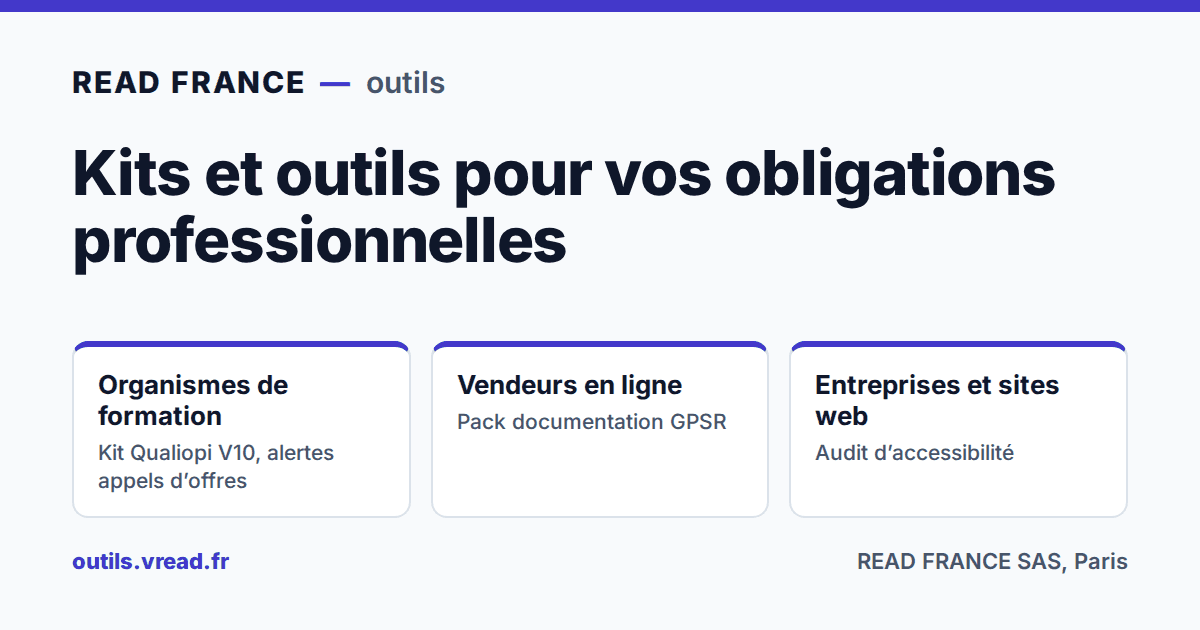
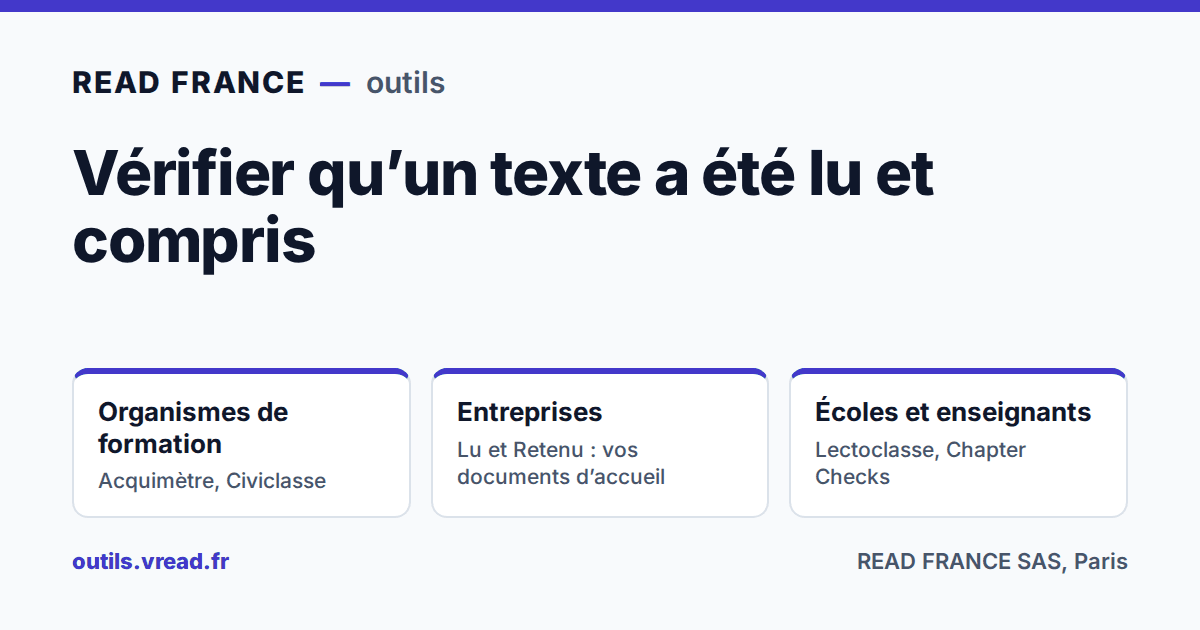
Hub: reading and comprehension offers only (Acquimètre, Lu et Retenu, Civiclasse, Lectoclasse, Chapter Checks); the other tools moved to the Jalonel brand (jalonel.com), linked once; sitemap index and robots.txt regenerated from tools/sitemaps.mjs (5 sites); cross-site footer list, JSON-LD and og.pn

Changed region(s): [[0.0617, 0.5429, 0.9558, 0.7841], [0.0617, 0.2111, 0.8942, 0.4524]]

diff --git a/index.html b/index.html
@@ -3,23 +3,23 @@
 <head>
 <meta charset="utf-8">
 <meta name="viewport" content="width=device-width, initial-scale=1">
-<title>Kit Qualiopi V10, pack GPSR, alertes AO, audit accessibilité</title>
-<meta name="description" content="READ FRANCE SAS : kit Qualiopi V10 129 €, pack GPSR 29 €, alertes appels d’offres formation dès 49 €, audit accessibilité 149 €. Prix nets. Outils gratuits.">
+<title>Questionnaires de lecture, évaluations et kits d’œuvres du domaine public</title>
+<meta name="description" content="READ FRANCE SAS : évaluations Qualiopi rédigées à partir de vos supports, questionnaires de lecture de vos documents d’accueil, examens blancs d’examen civique, kits d’œuvres pour lycées hors UE, chapter checks pour l’AP Literature.">
 <link rel="canonical" href="https://outils.vread.fr/">
 <meta property="og:type" content="website">
-<meta property="og:title" content="Kit Qualiopi V10, pack GPSR, alertes AO, audit accessibilité">
-<meta property="og:description" content="READ FRANCE SAS : kit Qualiopi V10 129 €, pack GPSR 29 €, alertes appels d’offres formation dès 49 €, audit accessibilité 149 €. Prix nets. Outils gratuits.">
+<meta property="og:title" content="Questionnaires de lecture, évaluations et kits d’œuvres du domaine public">
+<meta property="og:description" content="READ FRANCE SAS : évaluations Qualiopi rédigées à partir de vos supports, questionnaires de lecture de vos documents d’accueil, examens blancs d’examen civique, kits d’œuvres pour lycées hors UE, chapter checks pour l’AP Literature.">
 <meta property="og:url" content="https://outils.vread.fr/">
 <meta property="og:locale" content="fr_FR">
 <meta property="og:site_name" content="READ FRANCE">
 <meta property="og:image" content="https://outils.vread.fr/og.png">
 <meta property="og:image:width" content="1200">
 <meta property="og:image:height" content="630">
-<meta property="og:image:alt" content="READ FRANCE, outils : kits et outils pour vos obligations professionnelles (Qualiopi, GPSR, accessibilité, appels d’offres formation)">
+<meta property="og:image:alt" content="READ FRANCE, outils : lire et comprendre (évaluations, questionnaires de lecture, examens blancs, œuvres du domaine public)">
 <meta name="twitter:card" content="summary_large_image">
 <link rel="icon" href="/favicon.svg" type="image/svg+xml">
 <link rel="stylesheet" href="/styles.css">
-<script type="application/ld+json">{"@context": "https://schema.org", "@graph": [{"@type": "Organization", "@id": "https://outils.vread.fr/#org", "name": "READ FRANCE SAS", "legalName": "READ FRANCE", "url": "https://outils.vread.fr/", "logo": {"@type": "ImageObject", "@id": "https://outils.vread.fr/#logo", "url": "https://outils.vread.fr/logo-512.png", "contentUrl": "https://outils.vread.fr/logo-512.png", "width": 512, "height": 512, "caption": "READ FRANCE"}, "image": {"@id": "https://outils.vread.fr/#logo"}, "founder": [{"@type": "Person", "@id": "https://outils.vread.fr/#tanguy-warsmann", "name": "Tanguy Warsmann", "jobTitle": "Fondateur & CEO", "image": "https://outils.vread.fr/img/tanguy-warsmann.webp", "worksFor": {"@id": "https://outils.vread.fr/#org"}}, {"@type": "Person", "@id": "https://outils.vread.fr/#vincent-cance", "name": "Vincent Cance", "jobTitle": "Cofondateur & CTO", "image": "https://outils.vread.fr/img/vincent-cance.webp", "worksFor": {"@id": "https://outils.vread.fr/#org"}}], "sameAs": ["https://www.linkedin.com/company/vread-app/", "https://www.vread.fr/"], "email": "octave@vread.fr", "contactPoint": {"@type": "ContactPoint", "contactType": "customer service", "email": "octave@vread.fr", "availableLanguage": ["fr", "en"]}, "address": {"@type": "PostalAddress", "streetAddress": "11 rue Rouvet", "postalCode": "75019", "addressLocality": "Paris", "addressCountry": "FR"}, "identifier": {"@type": "PropertyValue", "propertyID": "SIREN", "value": "988741773"}, "hasOfferCatalog": {"@type": "OfferCatalog", "name": "Offres professionnelles READ FRANCE SAS", "itemListElement": [{"@type": "Offer", "itemOffered": {"@type": "Product", "name": "Kit Qualiopi V10", "url": "https://outils.vread.fr/kit-qualiopi-v10/"}, "price": "129.00", "priceCurrency": "EUR", "availability": "https://schema.org/InStock", "url": "https://outils.vread.fr/kit-qualiopi-v10/"}, {"@type": "Offer", "itemOffered": {"@type": "Product", "name": "Pack documentation GPSR", "url": "https://outils.vread.fr/kit-gpsr-vendeurs/pack.html"}, "price": "29.00", "priceCurrency": "EUR", "availability": "https://schema.org/InStock", "url": "https://outils.vread.fr/kit-gpsr-vendeurs/pack.html"}, {"@type": "Offer", "itemOffered": {"@type": "Product", "name": "Alertes e-mail appels d’offres formation — 3 mois", "url": "https://outils.vread.fr/veille-ao-formation/alertes/"}, "price": "49.00", "priceCurrency": "EUR", "availability": "https://schema.org/InStock", "url": "https://outils.vread.fr/veille-ao-formation/alertes/"}, {"@type": "Offer", "itemOffered": {"@type": "Product", "name": "Alertes e-mail appels d’offres formation — 12 mois", "url": "https://outils.vread.fr/veille-ao-formation/alertes/"}, "price": "149.00", "priceCurrency": "EUR", "availability": "https://schema.org/InStock", "url": "https://outils.vread.fr/veille-ao-formation/alertes/"}, {"@type": "Offer", "itemOffered": {"@type": "Product", "name": "Audit automatisé partiel d’accessibilité", "url": "https://outils.vread.fr/declaration-accessibilite/audit/"}, "price": "149.00", "priceCurrency": "EUR", "availability": "https://schema.org/InStock", "url": "https://outils.vread.fr/declaration-accessibilite/audit/"}]}}, {"@type": "ItemList", "name": "Outils et kits — READ FRANCE SAS", "itemListElement": [{"@type": "ListItem", "position": 1, "name": "Kit Qualiopi V10", "url": "https://outils.vread.fr/kit-qualiopi-v10/"}, {"@type": "ListItem", "position": 2, "name": "Kit GPSR Vendeurs", "url": "https://outils.vread.fr/kit-gpsr-vendeurs/"}, {"@type": "ListItem", "position": 3, "name": "Veille appels d’offres formation", "url": "https://outils.vread.fr/veille-ao-formation/"}, {"@type": "ListItem", "position": 4, "name": "Objectif NCLC — TCF Canada", "url": "https://outils.vread.fr/tcf-canada-entrainement/"}, {"@type": "ListItem", "position": 5, "name": "Courrier clair", "url": "https://outils.vread.fr/comprendre-mon-courrier/"}, {"@type": "ListItem", "position": 6, "name": "Générateur de déclaration d’accessibilité", "url": "https://outils.vread.fr/declaration-accessibilite/"}, {"@type": "ListItem", "position": 7, "name": "Vigie Marques", "url": "https://outils.vread.fr/veille-marques/"}, {"@type": "ListItem", "position": 8, "name": "Repère IA", "url": "https://outils.vread.fr/visibilite-ia/"}]}]}</script>
+<script type="application/ld+json">{"@context": "https://schema.org", "@graph": [{"@type": "Organization", "@id": "https://outils.vread.fr/#org", "name": "READ FRANCE SAS", "legalName": "READ FRANCE", "url": "https://outils.vread.fr/", "logo": {"@type": "ImageObject", "@id": "https://outils.vread.fr/#logo", "url": "https://outils.vread.fr/logo-512.png", "contentUrl": "https://outils.vread.fr/logo-512.png", "width": 512, "height": 512, "caption": "READ FRANCE"}, "image": {"@id": "https://outils.vread.fr/#logo"}, "founder": [{"@type": "Person", "@id": "https://outils.vread.fr/#tanguy-warsmann", "name": "Tanguy Warsmann", "jobTitle": "Fondateur & CEO", "image": "https://outils.vread.fr/img/tanguy-warsmann.webp", "worksFor": {"@id": "https://outils.vread.fr/#org"}}, {"@type": "Person", "@id": "https://outils.vread.fr/#vincent-cance", "name": "Vincent Cance", "jobTitle": "Cofondateur & CTO", "image": "https://outils.vread.fr/img/vincent-cance.webp", "worksFor": {"@id": "https://outils.vread.fr/#org"}}], "sameAs": ["https://www.linkedin.com/company/vread-app/", "https://www.vread.fr/"], "email": "octave@vread.fr", "contactPoint": {"@type": "ContactPoint", "contactType": "customer service", "email": "octave@vread.fr", "availableLanguage": ["fr", "en"]}, "address": {"@type": "PostalAddress", "streetAddress": "11 rue Rouvet", "postalCode": "75019", "addressLocality": "Paris", "addressCountry": "FR"}, "identifier": {"@type": "PropertyValue", "propertyID": "SIREN", "value": "988741773"}, "brand": {"@type": "Brand", "name": "Jalonel", "url": "https://jalonel.com/"}}, {"@type": "ItemList", "name": "Offres de lecture et de compréhension — READ FRANCE SAS", "itemListElement": [{"@type": "ListItem", "position": 1, "name": "Acquimètre", "url": "https://outils.vread.fr/acquimetre/"}, {"@type": "ListItem", "position": 2, "name": "Lu et Retenu", "url": "https://outils.vread.fr/lu-et-retenu/"}, {"@type": "ListItem", "position": 3, "name": "Civiclasse", "url": "https://outils.vread.fr/civiclasse/"}, {"@type": "ListItem", "position": 4, "name": "Lectoclasse", "url": "https://outils.vread.fr/lectoclasse/"}, {"@type": "ListItem", "position": 5, "name": "Chapter Checks", "url": "https://outils.vread.fr/chapter-checks/"}]}]}</script>
 </head>
 <body>
 <a class="skip" href="#contenu">Aller au contenu</a>
@@ -27,7 +27,7 @@
   <a class="wordmark" href="/" aria-label="READ FRANCE – outils, accueil">READ FRANCE <span class="wm-dash" aria-hidden="true">—</span> <span class="wm-sub">outils</span></a>
   <nav class="topnav" aria-label="Navigation principale">
     <a class="opt" href="#offres">Offres</a>
-    <a class="opt" href="#gratuit">Outils gratuits</a>
+    <a class="opt" href="#gratuit">Exemples gratuits</a>
     <a class="opt" href="#qui">Qui sommes-nous</a>
     <a class="contact-link" href="mailto:octave@vread.fr">Contact</a>
   </nav>
@@ -35,64 +35,62 @@
 <main id="contenu"><div class="wrap">
   <section class="hero" id="hero" aria-labelledby="h-titre">
     <div>
-      <p class="eyebrow">READ FRANCE SAS, Paris</p>
-      <h1 id="h-titre">Kit Qualiopi 2026, pack GPSR, alertes d’appels d’offres formation et audit d’accessibilité, de 29 € à 149 €</h1>
-      <p class="lead">Le kit Qualiopi suit le référentiel applicable au 1er novembre 2026 (décret n° 2026-728, 33 indicateurs). Le pack GPSR suit le règlement (UE) 2023/988. Les alertes reprennent chaque matin les avis BOAMP et TED de vos régions. Quatre outils gratuits fonctionnent sans inscription.</p>
+      <p class="eyebrow">READ FRANCE SAS, l’éditeur de Vread</p>
+      <h1 id="h-titre">Vérifier qu’un texte a été lu et compris : évaluations de formation, questionnaires de lecture, examens blancs et œuvres du domaine public</h1>
+      <p class="lead">Les questions sont rédigées à partir du texte lui-même, avec le passage qui justifie chaque réponse : vos supports de cours pour Acquimètre, vos documents d’accueil pour Lu et Retenu, les œuvres du bac de français pour Lectoclasse. Chaque offre a un exemple gratuit complet.</p>
       <div class="cta-row">
-        <a class="btn" href="#offres">Voir les offres, dès 29 €</a>
-        <a class="text-link" href="#gratuit">Ou commencer par un outil gratuit</a>
+        <a class="btn" href="#offres">Voir les offres</a>
+        <a class="text-link" href="#gratuit">Ou commencer par un exemple gratuit</a>
       </div>
     </div>
     <ul class="audiences" aria-label="Accès par profil">
-      <li><a href="#of"><span class="ico" aria-hidden="true">OF</span><span><strong>Organismes de formation</strong><span class="sub">Kit Qualiopi V10, alertes appels d’offres</span></span></a></li>
-      <li><a href="#vendeurs"><span class="ico" aria-hidden="true">€</span><span><strong>Vendeurs en ligne</strong><span class="sub">Pack documentation GPSR</span></span></a></li>
-      <li><a href="#sites"><span class="ico" aria-hidden="true">A11y</span><span><strong>Entreprises et sites web</strong><span class="sub">Audit d’accessibilité automatisé</span></span></a></li>
+      <li><a href="#formation"><span class="ico" aria-hidden="true">OF</span><span><strong>Organismes de formation et entreprises</strong><span class="sub">Acquimètre, Lu et Retenu, Civiclasse</span></span></a></li>
+      <li><a href="#ecoles"><span class="ico" aria-hidden="true">Éc</span><span><strong>Écoles et enseignants</strong><span class="sub">Lectoclasse, Chapter Checks</span></span></a></li>
     </ul>
   </section>
 
   <section id="offres" aria-labelledby="h-offres" style="margin-top:40px">
     <h2 id="h-offres" class="sec">Offres par profil</h2>
-    <p class="sec-lead">Vente aux professionnels (SIREN), paiement par carte avec Stripe, facture par e-mail. Chaque offre a sa version gratuite pour essayer avant d’acheter.</p>
+    <p class="sec-lead">Vente aux professionnels et aux établissements, paiement par carte avec Stripe, facture par e-mail. Le prix est affiché sur la page de commande de chaque offre.</p>
 
     <div class="groups">
-    <div class="group" id="of" data-section="offre-of">
-      <div class="group-head"><h3>Organismes de formation</h3><p>Certification Qualiopi et marchés publics</p></div>
+    <div class="group" id="formation" data-section="offre-formation">
+      <div class="group-head"><h3>Formation et entreprises</h3><p>Évaluer ce qui a été lu et compris</p></div>
       <ul class="grid">
         <li class="card">
-          <h4><a class="go" href="/kit-qualiopi-v10/">Kit Qualiopi V10</a></h4>
-          <p class="desc">4 synthèses et 19 modèles Word / LibreOffice pour le nouveau référentiel Qualiopi applicable au 1er novembre 2026 (33 indicateurs).</p>
-          <p class="price"><strong>129 €</strong></p>
-          <div class="actions"><a class="btn" href="/kit-qualiopi-v10/commander.html">Obtenir le kit – 129 €</a><a class="free" href="/kit-qualiopi-v10/">Échantillon gratuit</a></div>
+          <h4><a class="go" href="/acquimetre/">Acquimètre</a></h4>
+          <p class="desc">Tests de positionnement et évaluations de fin de formation et à J+30, rédigés à partir de vos supports de cours, avec corrigés et sources (Qualiopi, indicateurs 8 et 11). Livraison sous 5 jours ouvrés.</p>
+          <p class="price">Organismes de formation</p>
+          <div class="actions"><a class="btn" href="/acquimetre/commander.html">Commander</a><a class="free" href="/acquimetre/#exemple">Exemple complet gratuit</a></div>
         </li>
         <li class="card">
-          <h4><a class="go" href="/veille-ao-formation/alertes/">Alertes appels d’offres formation</a></h4>
-          <p class="desc">Chaque matin par e-mail, les nouveaux appels d’offres publics de formation (BOAMP, TED) de vos régions et thèmes. Prépayé, sans renouvellement automatique.</p>
-          <p class="price"><strong>49 €</strong> / 3 mois · 149 € / 12 mois</p>
-          <div class="actions"><a class="btn" href="/veille-ao-formation/alertes/#commander-h">Recevoir les alertes – 49 €</a><a class="free" href="/veille-ao-formation/">Veille gratuite (RSS, CSV)</a></div>
+          <h4><a class="go" href="/lu-et-retenu/">Lu et Retenu</a></h4>
+          <p class="desc">Un questionnaire de lecture de votre règlement intérieur ou de votre livret d’accueil, avec passages cités, corrigé et attestation de lecture à signer.</p>
+          <p class="price">Organismes de formation et entreprises</p>
+          <div class="actions"><a class="btn" href="/lu-et-retenu/commander.html">Commander</a><a class="free" href="/lu-et-retenu/#exemple">Exemple complet gratuit</a></div>
         </li>
-      </ul>
-    </div>
-
-    <div class="group" id="vendeurs" data-section="offre-vendeurs">
-      <div class="group-head"><h3>Vendeurs en ligne</h3><p>Règlement sur la sécurité générale des produits (UE) 2023/988</p></div>
-      <ul class="grid">
         <li class="card">
-          <h4><a class="go" href="/kit-gpsr-vendeurs/pack.html">Pack documentation GPSR</a></h4>
-          <p class="desc">Modèles étendus par catégorie, procédure de rappel, registre des incidents, questionnaire fournisseur (FR/EN) pour vendeurs Etsy, Vinted, Amazon, Shopify.</p>
-          <p class="price"><strong>29 €</strong></p>
-          <div class="actions"><a class="btn" href="/kit-gpsr-vendeurs/commander.html">Obtenir le pack – 29 €</a><a class="free" href="/kit-gpsr-vendeurs/">Générateur gratuit de fiche produit</a></div>
+          <h4><a class="go" href="/civiclasse/">Civiclasse</a></h4>
+          <p class="desc">Examens blancs de 40 questions au format de l’examen civique, corrigés sourcés, fiches de progression et module « Lecture B2 ». Version bêta.</p>
+          <p class="price">Organismes de formation</p>
+          <div class="actions"><a class="btn" href="/civiclasse/commander/">Voir les licences</a><a class="free" href="/civiclasse/entrainement/">Test gratuit de 10 questions</a></div>
         </li>
       </ul>
     </div>
-
-    <div class="group" id="sites" data-section="offre-sites">
-      <div class="group-head"><h3>Entreprises et sites web</h3><p>Accessibilité numérique (Acte européen sur l’accessibilité, RGAA)</p></div>
+    <div class="group" id="ecoles" data-section="offre-ecoles">
+      <div class="group-head"><h3>Écoles et enseignants</h3><p>Œuvres du domaine public, en classe</p></div>
       <ul class="grid">
         <li class="card">
-          <h4><a class="go" href="/declaration-accessibilite/audit/">Audit d’accessibilité automatisé</a></h4>
-          <p class="desc">Vos 20 pages clés testées sur ordinateur et mobile : rapport PDF sous 24 h ouvrées, problèmes classés par gravité. Analyse automatisée, ce n’est pas un audit RGAA complet.</p>
-          <p class="price"><strong>149 €</strong></p>
-          <div class="actions"><a class="btn" href="/declaration-accessibilite/audit/">Voir l’audit – 149 €</a><a class="free" href="/declaration-accessibilite/">Générateur gratuit de déclaration</a></div>
+          <h4><a class="go" href="/lectoclasse/">Lectoclasse</a></h4>
+          <p class="desc">Les œuvres du domaine public du bac de français (épreuve de juin 2027) à imprimer, avec questions par acte ou chapitre, corrigés et fiches d’oral.</p>
+          <p class="price">Lycées et écoles hors UE</p>
+          <div class="actions"><a class="btn" href="/lectoclasse/commander/">Voir les kits</a><a class="free" href="/lectoclasse/echantillon/">Kit gratuit sur Le Menteur</a></div>
+        </li>
+        <li class="card">
+          <h4><a class="go" href="/chapter-checks/" hreflang="en">Chapter Checks</a></h4>
+          <p class="desc">Contrôles de lecture par chapitre ou par acte pour 8 classiques étudiés en AP Literature : PDF, corrigé avec citations, barème, QTI pour Canvas et Google Forms.</p>
+          <p class="price">Enseignants aux États-Unis (en anglais)</p>
+          <div class="actions"><a class="btn" href="/chapter-checks/order/" hreflang="en">Voir les titres</a><a class="free" href="/chapter-checks/free-sample/" hreflang="en">Macbeth gratuit</a></div>
         </li>
       </ul>
     </div>
@@ -101,21 +99,23 @@
   </section>
 
   <section id="gratuit" aria-labelledby="h-gratuit" style="margin-top:56px">
-    <h2 id="h-gratuit" class="sec">Outils gratuits</h2>
+    <h2 id="h-gratuit" class="sec">Exemples gratuits</h2>
     <p class="sec-lead">Sans inscription, sans cookie.</p>
     <ul class="tools">
-      <li><a href="/tcf-canada-entrainement/">Objectif NCLC (TCF Canada)</a><span>Entraînement à l’expression orale et écrite du TCF Canada : format des tâches, sujets, grilles d’auto-évaluation NCLC.</span></li>
-      <li><a href="/comprendre-mon-courrier/">Courrier clair</a><span>Comprendre un courrier de la CAF, des impôts, de la préfecture, de la CPAM, de l’URSSAF ou une amende : délais, démarches, liens officiels. FR/EN.</span></li>
-      <li><a href="/veille-marques/">Vigie Marques</a><span>Surveiller sa marque soi-même : délais d’opposition INPI et EUIPO, recherches dans les bases officielles, alertes gratuites.</span></li>
-      <li><a href="/visibilite-ia/">Repère IA</a><span>Vérifier comment ChatGPT, Perplexity ou Gemini décrivent votre entreprise, et corriger ce qui bloque.</span></li>
+      <li><a href="/acquimetre/#exemple">Exemple complet gratuit</a><span>Acquimètre : organismes de formation.</span></li>
+      <li><a href="/lu-et-retenu/#exemple">Exemple complet gratuit</a><span>Lu et Retenu : organismes de formation et entreprises.</span></li>
+      <li><a href="/civiclasse/entrainement/">Test gratuit de 10 questions</a><span>Civiclasse : organismes de formation.</span></li>
+      <li><a href="/lectoclasse/echantillon/">Kit gratuit sur Le Menteur</a><span>Lectoclasse : lycées et écoles hors ue.</span></li>
+      <li><a href="/chapter-checks/free-sample/" hreflang="en">Macbeth gratuit</a><span>Chapter Checks : enseignants aux États-Unis (en anglais).</span></li>
     </ul>
+    <p class="sec-lead" style="margin-top:18px">Les outils de READ FRANCE SAS sans lien avec la lecture (Qualiopi, GPSR, accessibilité, appels d’offres, outils internationaux) sont sur <a href="https://jalonel.com/">jalonel.com</a>, une autre marque de la société.</p>
   </section>
 
   <section class="about" id="qui" aria-labelledby="h-qui">
     <div class="about-intro">
       <p class="eyebrow">Qui sommes-nous</p>
       <h2 id="h-qui">READ FRANCE SAS, Paris</h2>
-      <p>READ FRANCE SAS, société par actions simplifiée installée dans le 19e arrondissement de Paris, vend ces kits et ces services aux professionnels et publie les outils gratuits ci-dessus. Le kit Qualiopi part du décret n° 2026-728, le pack GPSR du règlement (UE) 2023/988 ; leurs pages citent ces textes. Les e-mails de prospection sont préparés par Octave, l’assistant IA de la société (<a href="/informations-prospects/">comment nous traitons ces données</a>).</p>
+      <p>READ FRANCE SAS, société par actions simplifiée installée dans le 19e arrondissement de Paris, édite Vread, l’application de lecture, et les offres de lecture et de compréhension de ce site. Chaque offre cite ses sources : textes du domaine public, référentiel Qualiopi (indicateurs 8 et 11), liste officielle des questions de l’examen civique. Les e-mails de prospection sont préparés par Octave, l’assistant IA de la société (<a href="/informations-prospects/">comment nous traitons ces données</a>).</p>
     </div>
     <ul class="founders" aria-label="Fondateurs">
       <li class="founder">
@@ -147,10 +147,12 @@
 <p class="rf-network-title">Autres outils READ FRANCE</p>
 <ul>
 <li><a href="https://outils.vread.fr/">Tous les outils</a></li>
-<li><a href="https://outils.vread.fr/kit-qualiopi-v10/">Kit Qualiopi V10</a></li>
-<li><a href="https://outils.vread.fr/kit-gpsr-vendeurs/pack.html">Pack documentation GPSR</a></li>
-<li><a href="https://outils.vread.fr/veille-ao-formation/alertes/">Alertes appels d’offres formation</a></li>
-<li><a href="https://outils.vread.fr/declaration-accessibilite/audit/">Audit d’accessibilité</a></li>
+<li><a href="https://outils.vread.fr/acquimetre/">Acquimètre</a></li>
+<li><a href="https://outils.vread.fr/lu-et-retenu/">Lu et Retenu</a></li>
+<li><a href="https://outils.vread.fr/civiclasse/">Civiclasse</a></li>
+<li><a href="https://outils.vread.fr/lectoclasse/">Lectoclasse</a></li>
+<li><a href="https://outils.vread.fr/chapter-checks/" hreflang="en">Chapter Checks</a></li>
+<li><a href="https://jalonel.com/">Autres outils : jalonel.com</a></li>
 </ul>
 </nav>
 

diff --git a/tools/og-hub.html b/tools/og-hub.html
@@ -23,11 +23,11 @@
 </head>
 <body>
   <div class="wm">READ FRANCE <span class="dash">—</span> <span class="sub">outils</span></div>
-  <h1>Kits et outils pour vos obligations professionnelles</h1>
+  <h1>Vérifier qu’un texte a été lu et compris</h1>
   <ul>
-    <li><strong>Organismes de formation</strong><span>Kit Qualiopi V10, alertes appels d’offres</span></li>
-    <li><strong>Vendeurs en ligne</strong><span>Pack documentation GPSR</span></li>
-    <li><strong>Entreprises et sites web</strong><span>Audit d’accessibilité</span></li>
+    <li><strong>Organismes de formation</strong><span>Acquimètre, Civiclasse</span></li>
+    <li><strong>Entreprises</strong><span>Lu et Retenu : vos documents d’accueil</span></li>
+    <li><strong>Écoles et enseignants</strong><span>Lectoclasse, Chapter Checks</span></li>
   </ul>
   <div class="foot"><b>outils.vread.fr</b><span>READ FRANCE SAS, Paris</span></div>
 <script src="../cro.js" data-site="hub" data-api="https://script.google.com/macros/s/AKfycbzD1IRL8QALluKGZxgGiORFP6-DkC_qFJYR9aOxZiimxa06nbCqpzUI-9iLblp6V2VY/exec" data-hosts="outils.vread.fr" defer></script>

diff --git a/404.html b/404.html
@@ -33,10 +33,12 @@
 <p class="rf-network-title">Autres outils READ FRANCE</p>
 <ul>
 <li><a href="https://outils.vread.fr/">Tous les outils</a></li>
-<li><a href="https://outils.vread.fr/kit-qualiopi-v10/">Kit Qualiopi V10</a></li>
-<li><a href="https://outils.vread.fr/kit-gpsr-vendeurs/pack.html">Pack documentation GPSR</a></li>
-<li><a href="https://outils.vread.fr/veille-ao-formation/alertes/">Alertes appels d’offres formation</a></li>
-<li><a href="https://outils.vread.fr/declaration-accessibilite/audit/">Audit d’accessibilité</a></li>
+<li><a href="https://outils.vread.fr/acquimetre/">Acquimètre</a></li>
+<li><a href="https://outils.vread.fr/lu-et-retenu/">Lu et Retenu</a></li>
+<li><a href="https://outils.vread.fr/civiclasse/">Civiclasse</a></li>
+<li><a href="https://outils.vread.fr/lectoclasse/">Lectoclasse</a></li>
+<li><a href="https://outils.vread.fr/chapter-checks/" hreflang="en">Chapter Checks</a></li>
+<li><a href="https://jalonel.com/">Autres outils : jalonel.com</a></li>
 </ul>
 </nav>
 

diff --git a/informations-prospects/index.html b/informations-prospects/index.html
@@ -84,10 +84,12 @@
 <p class="rf-network-title">Autres outils READ FRANCE</p>
 <ul>
 <li><a href="https://outils.vread.fr/">Tous les outils</a></li>
-<li><a href="https://outils.vread.fr/kit-qualiopi-v10/">Kit Qualiopi V10</a></li>
-<li><a href="https://outils.vread.fr/kit-gpsr-vendeurs/pack.html">Pack documentation GPSR</a></li>
-<li><a href="https://outils.vread.fr/veille-ao-formation/alertes/">Alertes appels d’offres formation</a></li>
-<li><a href="https://outils.vread.fr/declaration-accessibilite/audit/">Audit d’accessibilité</a></li>
+<li><a href="https://outils.vread.fr/acquimetre/">Acquimètre</a></li>
+<li><a href="https://outils.vread.fr/lu-et-retenu/">Lu et Retenu</a></li>
+<li><a href="https://outils.vread.fr/civiclasse/">Civiclasse</a></li>
+<li><a href="https://outils.vread.fr/lectoclasse/">Lectoclasse</a></li>
+<li><a href="https://outils.vread.fr/chapter-checks/" hreflang="en">Chapter Checks</a></li>
+<li><a href="https://jalonel.com/">Autres outils : jalonel.com</a></li>
 </ul>
 </nav>
 

diff --git a/mentions-legales.html b/mentions-legales.html
@@ -57,10 +57,12 @@
 <p class="rf-network-title">Autres outils READ FRANCE</p>
 <ul>
 <li><a href="https://outils.vread.fr/">Tous les outils</a></li>
-<li><a href="https://outils.vread.fr/kit-qualiopi-v10/">Kit Qualiopi V10</a></li>
-<li><a href="https://outils.vread.fr/kit-gpsr-vendeurs/pack.html">Pack documentation GPSR</a></li>
-<li><a href="https://outils.vread.fr/veille-ao-formation/alertes/">Alertes appels d’offres formation</a></li>
-<li><a href="https://outils.vread.fr/declaration-accessibilite/audit/">Audit d’accessibilité</a></li>
+<li><a href="https://outils.vread.fr/acquimetre/">Acquimètre</a></li>
+<li><a href="https://outils.vread.fr/lu-et-retenu/">Lu et Retenu</a></li>
+<li><a href="https://outils.vread.fr/civiclasse/">Civiclasse</a></li>
+<li><a href="https://outils.vread.fr/lectoclasse/">Lectoclasse</a></li>
+<li><a href="https://outils.vread.fr/chapter-checks/" hreflang="en">Chapter Checks</a></li>
+<li><a href="https://jalonel.com/">Autres outils : jalonel.com</a></li>
 </ul>
 </nav>
 

diff --git a/README.md b/README.md
@@ -1,6 +1,6 @@
 # vread-corp.github.io
 
-Site racine (hub) des outils et kits édités par READ FRANCE SAS : https://outils.vread.fr/
+Site racine (hub) des offres de lecture et de compréhension de READ FRANCE SAS : https://outils.vread.fr/ (Acquimètre, Lu et Retenu, Civiclasse, Lectoclasse, Chapter Checks). Depuis le 16 octobre 2026, les autres outils (Qualiopi, GPSR, accessibilité, appels d’offres, outils internationaux) sont sous la marque Jalonel : https://jalonel.com/ (dépôt `VREAD-corp/jalonel-hub`), un sous-domaine par site ; leurs anciennes URL outils.vread.fr/<dépôt>/ redirigent (301) vers le sous-domaine.
 
 Site statique, sans cookie, avec une mesure d’audience anonyme sans donnée personnelle (`mesure.js`) et des compteurs agrégés de navigation et de tests A/B (`cro.js`, copie à l’identique de `octave-checkout/gas/web/cro.js`, site `hub`). `robots.txt` et `sitemap.xml` (index) référencent les sitemaps de chaque outil ; ils sont générés par `npm run sitemaps` depuis la liste `SITES` de `tools/sitemaps.mjs` (ajouter chaque nouveau site sous outils.vread.fr à cette liste ; `npm test` vérifie que les deux fichiers lui correspondent). Le fichier `<clé>.txt` est la clé publique IndexNow (protocole indexnow.org).
 
